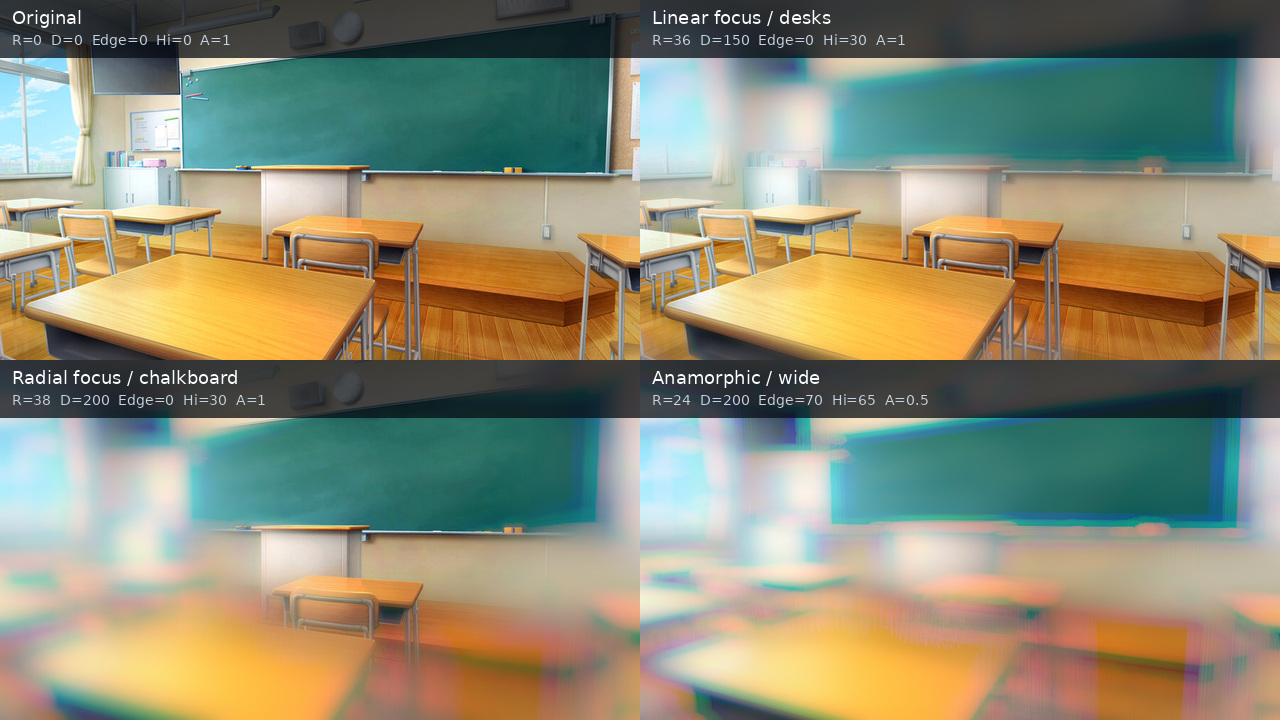
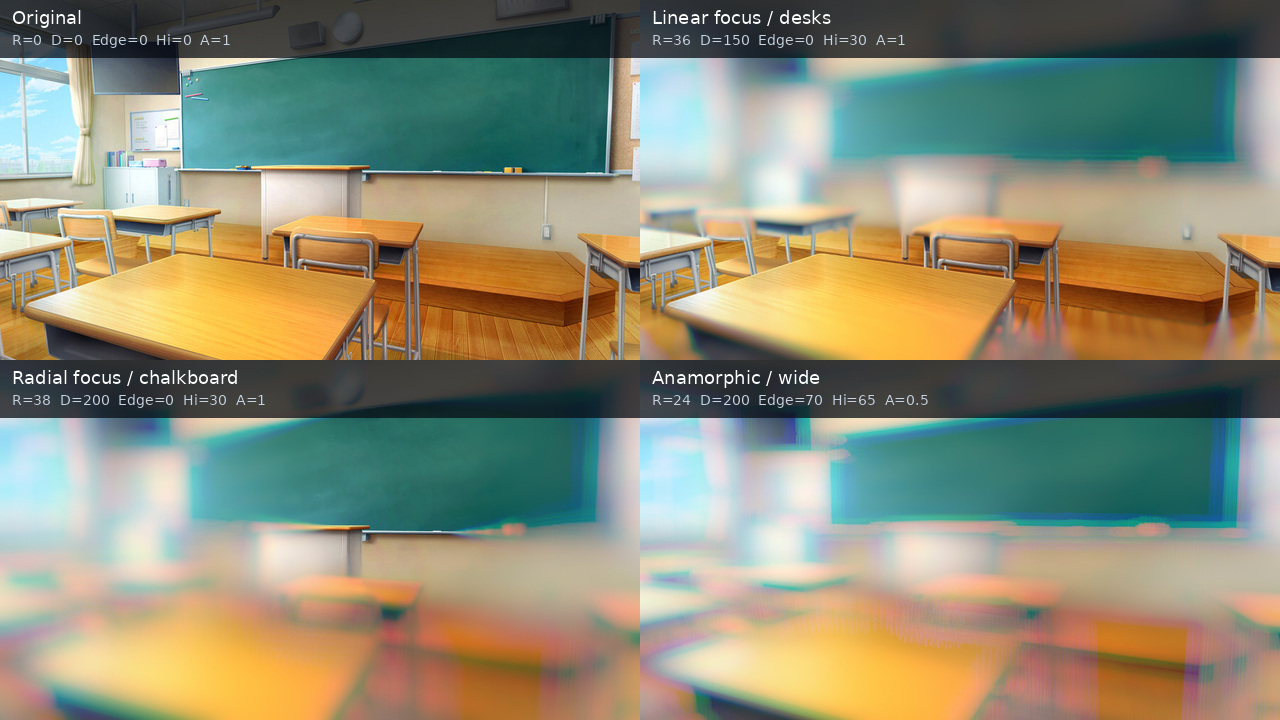
Match original blur mapping and composite behavior
Align depth-map coordinates, map preview, and the CUDA 4px downsample composite ramp. Add runtime WARP coverage for downsample/composite and keep the Web reference renderer in sync.

diff --git a/web/app.js b/web/app.js
@@ -224,7 +224,7 @@ void main() {
   vec4 original = texelFetch(uOriginal, ivec2(gl_FragCoord.xy), 0);
   float amount = focusAmount(p);
   if (uShowMap) {
-    outColor = vec4(vec3(amount * original.a), original.a);
+    outColor = vec4(vec3(amount), original.a);
     return;
   }
   if (amount <= 0.0 || uRadius < 0.5) { outColor = original; return; }
@@ -268,6 +268,7 @@ uniform float uAngle;
 uniform float uMode;
 uniform bool uInvert;
 uniform int uFactor;
+uniform float uMaxRadius;
 out vec4 outColor;
 float focusAmount(vec2 p) {
   vec2 center = uRawSize * vec2(uCenterX, uCenterY) / 100.0;
@@ -284,7 +285,9 @@ void main() {
   vec2 q = p / f;
   vec2 uv = vec2(q.x / uBlurSize.x, 1.0 - q.y / uBlurSize.y);
   vec4 blurred = texture(uBlur, uv);
-  float blend = uFactor == 1 ? 1.0 : focusAmount(p);
+  float amount = focusAmount(p);
+  float e1 = uMaxRadius > 1.0 ? 4.0 / uMaxRadius : 1.0;
+  float blend = uFactor == 1 ? 1.0 : (amount <= 0.0 ? 0.0 : (amount >= e1 ? 1.0 : amount / e1));
   outColor = mix(raw, blurred, blend);
 }`;
 
@@ -466,7 +469,10 @@ class CoolBlurRenderer {
     if (!this.imageInfo) return null;
     const gl = this.gl;
     const { width, height, scale } = this.imageInfo;
-    const factor = chooseDownsampleFactor(params.mode, params.radius, params.downsample, params.showMap);
+    // AE scales pixel-valued parameters to the current render resolution
+    // before selecting the CUDA downsample factor.
+    const effectiveRadius = params.radius * scale;
+    const factor = chooseDownsampleFactor(params.mode, effectiveRadius, params.downsample, params.showMap);
     this.ensureTargets(width, height, factor);
     const lowWidth = Math.ceil(width / factor);
     const lowHeight = Math.ceil(height / factor);
@@ -545,6 +551,7 @@ class CoolBlurRenderer {
     this.setUniform(program, "uMode", Number(params.mode));
     this.setUniform(program, "uInvert", params.invert);
     this.setUniform(program, "uFactor", factor);
+    this.setUniform(program, "uMaxRadius", effectiveRadius);
     this.draw(program, null, width, height);
     gl.finish();
     return { factor, width, height, scale, floatTarget: this.floatTarget };

diff --git a/tests/gpu_tests.cpp b/tests/gpu_tests.cpp
@@ -37,7 +37,7 @@ ComPtr<ID3DBlob> compile(const std::string& s,const char* profile) {
 }
 struct Gpu {
     ComPtr<ID3D11Device> dev; ComPtr<ID3D11DeviceContext> ctx;
-    ComPtr<ID3D11VertexShader> vs; ComPtr<ID3D11PixelShader> prep,gather;
+    ComPtr<ID3D11VertexShader> vs; ComPtr<ID3D11PixelShader> prep,gather,downsample,composite;
     ComPtr<ID3D11SamplerState> sampler;
     Gpu() {
         check(D3D11CreateDevice(nullptr,D3D_DRIVER_TYPE_WARP,nullptr,0,nullptr,0,D3D11_SDK_VERSION,&dev,nullptr,&ctx));
@@ -47,49 +47,71 @@ struct Gpu {
         check(dev->CreatePixelShader(p->GetBufferPointer(),p->GetBufferSize(),nullptr,&prep));
         p=compile(source("Gather"),"ps_4_0");
         check(dev->CreatePixelShader(p->GetBufferPointer(),p->GetBufferSize(),nullptr,&gather));
-        // Also compile the production low-resolution stages.  Their graph
-        // mapping is exercised by the YMM host; WARP catches shader syntax
-        // and constant-buffer layout regressions here.
-        (void)compile(source("Downsample"),"ps_4_0");
-        (void)compile(source("Composite"),"ps_4_0");
+        p=compile(source("Downsample"),"ps_4_0");
+        check(dev->CreatePixelShader(p->GetBufferPointer(),p->GetBufferSize(),nullptr,&downsample));
+        p=compile(source("Composite"),"ps_4_0");
+        check(dev->CreatePixelShader(p->GetBufferPointer(),p->GetBufferSize(),nullptr,&composite));
         D3D11_SAMPLER_DESC sd={}; sd.Filter=D3D11_FILTER_MIN_MAG_MIP_LINEAR;
         sd.AddressU=sd.AddressV=sd.AddressW=D3D11_TEXTURE_ADDRESS_CLAMP; sd.MaxLOD=D3D11_FLOAT32_MAX;
         check(dev->CreateSamplerState(&sd,&sampler));
     }
-    ComPtr<ID3D11Texture2D> texture(const std::vector<Pixel>* pixels=nullptr) {
-        D3D11_TEXTURE2D_DESC d={}; d.Width=W; d.Height=H; d.MipLevels=d.ArraySize=1;
+    ComPtr<ID3D11Texture2D> texture(int width,int height,const std::vector<Pixel>* pixels=nullptr) {
+        D3D11_TEXTURE2D_DESC d={}; d.Width=width; d.Height=height; d.MipLevels=d.ArraySize=1;
         d.Format=DXGI_FORMAT_R32G32B32A32_FLOAT; d.SampleDesc.Count=1;
         d.BindFlags=D3D11_BIND_SHADER_RESOURCE|D3D11_BIND_RENDER_TARGET;
-        D3D11_SUBRESOURCE_DATA data={}; if(pixels) {data.pSysMem=pixels->data(); data.SysMemPitch=W*sizeof(Pixel);}
+        D3D11_SUBRESOURCE_DATA data={}; if(pixels) {data.pSysMem=pixels->data(); data.SysMemPitch=width*sizeof(Pixel);}
         ComPtr<ID3D11Texture2D> t; check(dev->CreateTexture2D(&d,pixels?&data:nullptr,&t)); return t;
     }
-    ComPtr<ID3D11Texture2D> draw(ID3D11PixelShader* ps,const std::array<ID3D11Texture2D*,4>& inputs,const float* constants,UINT bytes) {
-        auto out=texture(); ComPtr<ID3D11RenderTargetView> rtv; check(dev->CreateRenderTargetView(out.Get(),nullptr,&rtv));
+    ComPtr<ID3D11Texture2D> draw(ID3D11PixelShader* ps,const std::array<ID3D11Texture2D*,4>& inputs,UINT inputCount,const float* constants,UINT bytes,int width,int height) {
+        auto out=texture(width,height); ComPtr<ID3D11RenderTargetView> rtv; check(dev->CreateRenderTargetView(out.Get(),nullptr,&rtv));
         std::array<ComPtr<ID3D11ShaderResourceView>,4> views;
         ID3D11ShaderResourceView* raw[4]; ID3D11SamplerState* ss[]={sampler.Get(),sampler.Get(),sampler.Get(),sampler.Get()};
         for(int i=0;i<4;++i) {check(dev->CreateShaderResourceView(inputs[i],nullptr,&views[i])); raw[i]=views[i].Get();}
         D3D11_BUFFER_DESC bd={}; bd.ByteWidth=bytes; bd.Usage=D3D11_USAGE_IMMUTABLE; bd.BindFlags=D3D11_BIND_CONSTANT_BUFFER;
         D3D11_SUBRESOURCE_DATA data={}; data.pSysMem=constants;
         ComPtr<ID3D11Buffer> cb; check(dev->CreateBuffer(&bd,&data,&cb));
-        D3D11_VIEWPORT vp={0,0,(float)W,(float)H,0,1};
+        D3D11_VIEWPORT vp={0,0,(float)width,(float)height,0,1};
         ctx->RSSetViewports(1,&vp); ctx->OMSetRenderTargets(1,rtv.GetAddressOf(),nullptr);
         ctx->VSSetShader(vs.Get(),nullptr,0); ctx->PSSetShader(ps,nullptr,0);
-        ctx->PSSetConstantBuffers(0,1,cb.GetAddressOf()); ctx->PSSetShaderResources(0,3,raw); ctx->PSSetSamplers(0,3,ss);
+        ctx->PSSetConstantBuffers(0,1,cb.GetAddressOf()); ctx->PSSetShaderResources(0,inputCount,raw); ctx->PSSetSamplers(0,inputCount,ss);
         ctx->IASetPrimitiveTopology(D3D11_PRIMITIVE_TOPOLOGY_TRIANGLELIST); ctx->Draw(3,0);
         ID3D11ShaderResourceView* empty[4]={}; ctx->PSSetShaderResources(0,4,empty); ctx->OMSetRenderTargets(0,nullptr,nullptr);
         return out;
     }
-    std::vector<Pixel> render(const std::vector<Pixel>& pixels,std::array<float,48> c,const std::vector<Pixel>* depth=nullptr) {
-        auto input=texture(&pixels), dt=texture(depth?depth:&pixels);
-        std::array<float,4> pc={c[12],c[13],c[14],0};
-        auto prepared=draw(prep.Get(),{input.Get(),input.Get(),input.Get(),input.Get()},pc.data(),sizeof(pc));
-        auto out=draw(gather.Get(),{prepared.Get(),dt.Get(),input.Get(),input.Get()},c.data(),sizeof(c));
+    std::vector<Pixel> readback(ID3D11Texture2D* out,int width,int height) {
         D3D11_TEXTURE2D_DESC d; out->GetDesc(&d); d.Usage=D3D11_USAGE_STAGING; d.BindFlags=0; d.CPUAccessFlags=D3D11_CPU_ACCESS_READ;
-        ComPtr<ID3D11Texture2D> stage; check(dev->CreateTexture2D(&d,nullptr,&stage)); ctx->CopyResource(stage.Get(),out.Get());
+        ComPtr<ID3D11Texture2D> stage; check(dev->CreateTexture2D(&d,nullptr,&stage)); ctx->CopyResource(stage,out);
         D3D11_MAPPED_SUBRESOURCE mapped; check(ctx->Map(stage.Get(),0,D3D11_MAP_READ,0,&mapped));
-        std::vector<Pixel> result(W*H);
-        for(int y=0;y<H;++y) memcpy(result.data()+y*W,(char*)mapped.pData+y*mapped.RowPitch,W*sizeof(Pixel));
+        std::vector<Pixel> result(width*height);
+        for(int y=0;y<height;++y) memcpy(result.data()+y*width,(char*)mapped.pData+y*mapped.RowPitch,width*sizeof(Pixel));
         ctx->Unmap(stage.Get(),0); return result;
+    }
+    std::vector<Pixel> render(const std::vector<Pixel>& pixels,std::array<float,48> c,const std::vector<Pixel>* depth=nullptr) {
+        auto input=texture(W,H,&pixels), dt=texture(W,H,depth?depth:&pixels);
+        std::array<float,4> pc={c[12],c[13],c[14],0};
+        auto prepared=draw(prep.Get(),{input.Get(),input.Get(),input.Get(),input.Get()},1,pc.data(),sizeof(pc),W,H);
+        auto out=draw(gather.Get(),{prepared.Get(),dt.Get(),input.Get(),input.Get()},4,c.data(),sizeof(c),W,H);
+        return readback(out.Get(),W,H);
+    }
+    std::vector<Pixel> renderDepth(const std::vector<Pixel>& pixels,std::array<float,48> c,const std::vector<Pixel>& depth,int depthW,int depthH) {
+        auto input=texture(W,H,&pixels), dt=texture(depthW,depthH,&depth);
+        std::array<float,4> pc={c[12],c[13],c[14],0};
+        auto prepared=draw(prep.Get(),{input.Get(),input.Get(),input.Get(),input.Get()},1,pc.data(),sizeof(pc),W,H);
+        c[40]=0;c[41]=0;c[42]=(float)depthW;c[43]=(float)depthH;
+        auto out=draw(gather.Get(),{prepared.Get(),dt.Get(),input.Get(),input.Get()},4,c.data(),sizeof(c),W,H);
+        return readback(out.Get(),W,H);
+    }
+    std::vector<Pixel> downsampleImage(const std::vector<Pixel>& pixels,int width,int height,int factor) {
+        int lowW=(width+factor-1)/factor, lowH=(height+factor-1)/factor;
+        auto input=texture(width,height,&pixels);
+        std::array<float,12> c={(float)factor,0,0,0, 0,0,(float)width,(float)height, 0,0,(float)lowW,(float)lowH};
+        auto out=draw(downsample.Get(),{input.Get(),input.Get(),input.Get(),input.Get()},1,c.data(),sizeof(c),lowW,lowH);
+        return readback(out.Get(),lowW,lowH);
+    }
+    std::vector<Pixel> compositeImage(const std::vector<Pixel>& low,int lowW,int lowH,const std::vector<Pixel>& raw,int rawW,int rawH,std::array<float,20> c) {
+        auto lowTex=texture(lowW,lowH,&low), rawTex=texture(rawW,rawH,&raw);
+        auto out=draw(composite.Get(),{lowTex.Get(),rawTex.Get(),rawTex.Get(),rawTex.Get()},2,c.data(),sizeof(c),rawW,rawH);
+        return readback(out.Get(),rawW,rawH);
     }
 };
 std::array<float,48> defaults() {
@@ -116,9 +138,15 @@ int main() {
     c=defaults(); imageNear(g.render(transparent,c),transparent,1e-6f); ++tests;
     c[5]=3; imageNear(g.render(pattern,c),pattern,1e-6f); ++tests; // missing depth
     c=defaults(); c[6]=1; imageNear(g.render(pattern,c),pattern,1e-6f); ++tests;
-    c=defaults(); c[7]=1; auto map=g.render(field,c); for(auto px:map) for(int k=0;k<4;++k) assertNear(px[k],.5f); ++tests;
+    c=defaults(); c[7]=1; auto map=g.render(field,c); for(auto px:map) {for(int k=0;k<3;++k) assertNear(px[k],1); assertNear(px[3],.5f);} ++tests;
     c=defaults(); c[5]=3; c[19]=1; std::vector<Pixel> depth(W*H,Pixel{.5f,.5f,.5f,1});
     imageNear(g.render(pattern,c,&depth),pattern,1e-6f); ++tests;
+    // A mismatched depth map follows BuildDepthMap's left-edge nearest mapping:
+    // floor(x*depthWidth/sourceWidth), not centre-based resampling.
+    std::vector<Pixel> depthSmall={Pixel{0,0,0,1},Pixel{1,1,1,1}};
+    c=defaults(); c[5]=3;c[7]=1;c[16]=0;c[17]=0;c[18]=.1f;c[19]=1;
+    auto resizedDepthMap=g.renderDepth(field,c,depthSmall,2,1);
+    for(int y=0;y<H;++y) for(int x=0;x<W;++x) {float want=x<W/2?0.f:1.f;for(int k=0;k<3;++k)assertNear(resizedDepthMap[y*W+x][k],want,1e-6f);assertNear(resizedDepthMap[y*W+x][3],.5f,1e-6f);} ++tests;
     c=defaults(); c[15]=0; c[12]=1; auto fade=g.render(field,c);
     if(!(fade[0][3]<.5f&&fade[W*(H/2)+W/2][3]>.45f)) throw std::runtime_error("Transparent edge did not fade"); ++tests;
     c=defaults(); c[24]=c[29]=c[34]=0; imageNear(g.render(field,c),field); ++tests; // black-picker fallback
@@ -128,6 +156,23 @@ int main() {
     c=defaults(); c[8]=3; c[9]=.5f; c[12]=1; c[14]=0;
     auto blurred=g.render(impulse,c); auto center=blurred[W*(H/2)+W/2];
     if(!(center[0]>center[1]&&center[1]>center[2]&&center[0]<1)) throw std::runtime_error("Spectral radius ordering failed"); ++tests;
+    // Execute the production downsample shader, including a partial block on
+    // odd dimensions, and compare every output texel to exact box averages.
+    const int dw=5,dh=3,df=2,dlw=3,dlh=2;
+    std::vector<Pixel> sourcePixels(dw*dh);
+    for(int y=0;y<dh;++y) for(int x=0;x<dw;++x) {float v=(float)(x+y*10); sourcePixels[y*dw+x]={v,v,v,1};}
+    auto down=g.downsampleImage(sourcePixels,dw,dh,df);
+    for(int ly=0;ly<dlh;++ly) for(int lx=0;lx<dlw;++lx) {
+        float sum=0,n=0; for(int sy=0;sy<df;++sy) for(int sx=0;sx<df;++sx) {int x=lx*df+sx,y=ly*df+sy;if(x<dw&&y<dh){sum+=x+y*10;n++;}}
+        for(int k=0;k<3;++k) assertNear(down[ly*dlw+lx][k],sum/n,1e-6f); assertNear(down[ly*dlw+lx][3],1,1e-6f);
+    }
+    ++tests;
+    // Execute the production composite shader and verify CUDA's 4px ramp.
+    std::vector<Pixel> low(dlw*dlh,Pixel{1,1,1,1}), raw(dw*dh,Pixel{0,0,0,1});
+    std::array<float,20> cc={0,0,0,100, 0,1,0,2, 36,0,0,0, 0,0,(float)dlw,(float)dlh, 0,0,(float)dw,(float)dh};
+    auto combined=g.compositeImage(low,dlw,dlh,raw,dw,dh,cc);
+    float amount=.5f/100.f, expected=amount/(4.f/36.f);
+    for(int k=0;k<3;++k) assertNear(combined[0][k],expected,3e-4f); assertNear(combined[0][3],1,1e-6f); ++tests;
     for(auto px:fade) for(int k=0;k<3;++k) if(!std::isfinite(px[k])||px[k]<0||px[k]>px[3]+1e-6f) throw std::runtime_error("Invalid premultiplied output");
     std::cout<<"PASS: "<<tests<<" production-shader WARP cases\n";
     return 0;

diff --git a/tools/render_reference.cpp b/tools/render_reference.cpp
@@ -72,7 +72,7 @@ float gather(int x, int y, float radius, int c, const Params& p)
         int count = radius <= 16 ? 64 : radius <= 40 ? 128 : p.quality;
         for (int i = 0; i < count; ++i)
         {
-            float4 s = count <= 64 ? samples64[i] : count <= 128 ? samples128[i] : samples512[i];
+            float4 s = count <= 64 ? samples64[i] : count <= 128 ? samples128[i] : count <= 256 ? samples256[i] : samples512[i];
             float w = weight(p.edge, s.z, s.w);
             sum += bilinearPrepared(x + s.x * rx, y + s.y * ry, c) * w;
             total += w;
@@ -199,7 +199,8 @@ std::vector<RGB> render(const Params& p, const Weights& weights)
     }
 
     // CoolBlurCompositeCUDA: restore full resolution and bilinear-upsample
-    // with gx = (x + .5) / factor - .5, then blend by full-res focus amount.
+    // with gx = (x + .5) / factor - .5, then use the same 4px transition
+    // ramp as CoolBlurCompositeCUDA.
     W = fullW; H = fullH; prepared = std::move(fullPrepared);
     std::vector<RGB> out = original;
     #pragma omp parallel for schedule(dynamic, 1)
@@ -208,7 +209,9 @@ std::vector<RGB> render(const Params& p, const Weights& weights)
         float amount = focusAmount(x + .5f, y + .5f, fullCenterX, fullCenterY, p.width, p.feather, p);
         if (amount <= 0 || p.radius < .5f) continue;
         float gx = (x + .5f) / factor - .5f, gy = (y + .5f) / factor - .5f;
-        out[y * fullW + x] = lerp(original[y * fullW + x], bilinearImage(lowBlur, lowW, lowH, gx, gy), amount);
+        float e1 = p.radius > 1 ? 4 / p.radius : 1;
+        float blend = amount >= e1 ? 1 : amount / e1;
+        out[y * fullW + x] = lerp(original[y * fullW + x], bilinearImage(lowBlur, lowW, lowH, gx, gy), blend);
     }
     return out;
 }

diff --git a/ymm/CompositeEffect.cs b/ymm/CompositeEffect.cs
@@ -21,6 +21,7 @@ internal sealed class CompositeEffect(IGraphicsDevicesAndContext devices)
     public float Mode { set => SetValue(5, value); }
     public float Invert { set => SetValue(6, value); }
     public float Factor { set => SetValue(7, value); }
+    public float MaxRadius { set => SetValue(8, value); }
 
     [CustomEffect(2)]
     private sealed class Impl : D2D1CustomShaderEffectImplBase<Impl>
@@ -38,6 +39,7 @@ internal sealed class CompositeEffect(IGraphicsDevicesAndContext devices)
         [CustomEffectProperty(PropertyType.Float, 5)] public float Mode { get => _c.Mode; set { _c.Mode = value; UpdateConstants(); } }
         [CustomEffectProperty(PropertyType.Float, 6)] public float Invert { get => _c.Invert; set { _c.Invert = value; UpdateConstants(); } }
         [CustomEffectProperty(PropertyType.Float, 7)] public float Factor { get => _c.Factor; set { _c.Factor = Math.Clamp(float.IsFinite(value) ? value : 1, 1, 4); UpdateConstants(); } }
+        [CustomEffectProperty(PropertyType.Float, 8)] public float MaxRadius { get => _c.MaxRadius; set { _c.MaxRadius = Math.Max(float.IsFinite(value) ? value : 0, 0); UpdateConstants(); } }
 
         protected override void UpdateConstants()
         {
@@ -73,6 +75,7 @@ internal sealed class CompositeEffect(IGraphicsDevicesAndContext devices)
         {
             public float CenterX, CenterY, Zone, Feather;
             public float Angle, Mode, Invert, Factor;
+            public float MaxRadius, Reserved0, Reserved1, Reserved2;
             public float LowLeft, LowTop, LowRight, LowBottom;
             public float RawLeft, RawTop, RawRight, RawBottom;
         }

diff --git a/ymm/GatherEffect.cs b/ymm/GatherEffect.cs
@@ -92,6 +92,9 @@ internal sealed class GatherEffect(IGraphicsDevicesAndContext devices)
         {
             drawInformation?.SetOutputBuffer(BufferPrecision.PerChannel32Float, ChannelDepth.Four);
             drawInformation?.SetInputDescription(0, new InputDescription { Filter = Filter.MinMagMipLinear, LevelOfDetailCount = 1 });
+            // The original CPU depth-map conversion uses nearest-neighbour
+            // lookup.  Sampling an exact source-pixel centre keeps this exact.
+            drawInformation?.SetInputDescription(1, new InputDescription { Filter = Filter.MinMagMipPoint, LevelOfDetailCount = 1 });
             drawInformation?.SetPixelShaderConstantBuffer(_c);
         }
         public override void MapOutputRectToInputRects(RawRect outputRect, RawRect[] inputRects)

diff --git a/ymm/SaCoolBlurProcessor.cs b/ymm/SaCoolBlurProcessor.cs
@@ -115,7 +115,7 @@ internal sealed class SaCoolBlurProcessor : IVideoEffectProcessor
         _composite.CenterX = centerX; _composite.CenterY = centerY;
         _composite.Zone = zone; _composite.Feather = feather; _composite.Angle = angle;
         _composite.Mode = mode; _composite.Invert = _item.Invert ? 1 : 0;
-        _composite.Factor = downsample;
+        _composite.Factor = downsample; _composite.MaxRadius = radius;
         UpdateDepth(_item.Mode == FocusMode.Depth ? _item.DepthFile : "");
         _gather.HasDepth = _depth is null ? 0 : 1;
         using var blur = downsample > 1 ? _lowGather.Output : _gather.Output;

diff --git a/docs/PORT.md b/docs/PORT.md
@@ -11,14 +11,14 @@
 - 小半径は円盤の全点。大半径は元GPU版と同じ64 / 128 / 256 / 512点のハイブリッドVogel点群
 - 半径16px以下は64点、40px以下は128点、それ以上は画質設定（128 / 256 / 512）
 - 画像の端の引き延ばし／透明、半径0・ピント内の原画保持
-- 元GPU版と同じAuto downsample（32px以上で2倍、96px以上で4倍）。前処理済み画像をcontent-onlyでbox平均し、低解像度でギャザー、線形補間で拡大してフル解像度の焦点量で原画と合成
+- 元GPU版と同じAuto downsample（32px以上で2倍、96px以上で4倍）。前処理済み画像をcontent-onlyでbox平均し、低解像度でギャザー、線形補間で拡大。実効半径4pxまでの遷移ランプでフル解像度原画と合成
 
 ## 一致範囲と差
 
 - Direct2D GPU専用。AE CPU版のFFTとOpenCLの実行環境は持たない。
 - 半径・分散・重み・色管理・アルファ処理は、AE GPU版の通常解像度パスとAuto downsampleパスの計算順にそろえている。
 - D3D11とCUDAでは浮動小数点・テクスチャ補間の実装が異なるため、異なるGPU間で8bit画像の全ピクセルがバイト単位で一致することまでは保証できない。式とパラメータの挙動は一致させる。
-- 深度は静止画ファイルのみ。別レイヤー、動画、OpenEXR深度の取り込みは未対応。
+- 深度は静止画ファイルのみ。サイズ違い画像の画素対応とフォーカス量はAE CPU版に合わせているが、ぼかし本体はDirect2Dギャザーであり、AE CPU版が半径8px以上で使うFFT経路とは一致しない。別レイヤー、動画、OpenEXR深度の取り込みは未対応。
 - 出力は元GPU版に合わせたpremultiplied alpha。RGBをalphaへ追加クランプしない。
 - 出力領域は元の素材サイズ。素材の外へのボケ拡張は行わない。
 - CPU読戻しなし。中間バッファは32bit float、前処理でガンマ変換とハイライト処理を済ませる。
@@ -38,6 +38,6 @@ GitHub Actionsでも同じ構成でC#・HLSLをコンパイルし、配布ZIPを
 2026-09-21: [Windows CI](https://github.com/sabiasagimp4-ai/Sa_coolblur/actions/runs/35584059978) 成功。
 
 - YMM4 Liteの実DLLを参照してC#とHLSLをビルド。警告・エラーなし。
-- 本番HLSLをD3D11 WARPで描画し38ケース成功。全画質・ボケの縁・正負の分散、半透明の一定色、半径0、ピント内、完全透明、深度未指定／焦点一致、端の透明化、色の正規化、点光源の分散を確認。Auto downsampleの縮小・合成シェーダーも本番FXCでコンパイル済み。
+- 本番HLSLをD3D11 WARPで描画し41ケースを検証。全画質・ボケの縁・正負の分散、半透明の一定色、半径0、ピント内、完全透明、深度未指定／焦点一致／サイズ違い、端の透明化、色の正規化、点光源の分散を確認。Auto downsampleの縮小と4px遷移合成も本番シェーダーを実描画して数値比較する。
 - WARPテストはDirect2Dの座標ヘルパーをテスト用アダプターで置換して実行する。YMM4のUI、Direct2Dグラフ全体、プロジェクト保存／再読込、実GPU性能までは確認していない。
 - YMM4実機でのプレビュー・書き出し確認は別途必要。

diff --git a/README.md b/README.md
@@ -24,13 +24,14 @@ YMM4用の色分散レンズブラー。ぼかしの広がりを3つの色に分
 
 ## 元プラグインとの一致
 
-- 既定の「ダウンサンプル: 自動」は元AE GPU版と同じ選択です。半径32px以上で2倍、96px以上で4倍に縮小してぼかし、線形補間で戻してフル解像度の焦点量で原画と合成します。「なし（原寸）」なら通常解像度パスです。
+- 既定の「ダウンサンプル: 自動」は元AE GPU版と同じ選択です。半径32px以上で2倍、96px以上で4倍に縮小してぼかし、線形補間で戻して、元版と同じ実効半径4pxの遷移で原画と合成します。「なし（原寸）」なら通常解像度パスです。
 - 小半径の整数ディスク、64/128/256/512点のVogel切替、色チャンネルの重み、リニアライト、ハイライト、アルファ処理は元GPU版と同じ順で計算します。AE CPU版のFFT経路は対象外です。
 - CUDAとD3D11では浮動小数点・テクスチャ補間の実装が異なるため、別GPU間の8bit出力を全画素バイト単位で保証することはできません。差を確認する場合は、元側もGPU処理ON・同じ画質・同じダウンサンプル設定で比較してください。
 
 ## 補足
 
 - 深度マップはPNGなどの静止画を指定します。AEの別レイヤー・動画参照には未対応です。未指定ならぼかしません。
+- 深度マップの画素対応とフォーカス量は元版に合わせていますが、AE CPU版のFFTぼかしはDirect2Dでは使用しないため、深度モードのぼけ形状は完全一致の対象外です。
 - マップ画像は素材全体に合わせて伸縮します。ピントマップ表示では白い部分ほど強くぼけます。
 - ピント幅は帯状では帯の全幅、円形では半径です。中心は素材に対する割合です。
 - 大きい半径で粒が見える場合は画質を上げてください。高品質は処理が重くなります。
